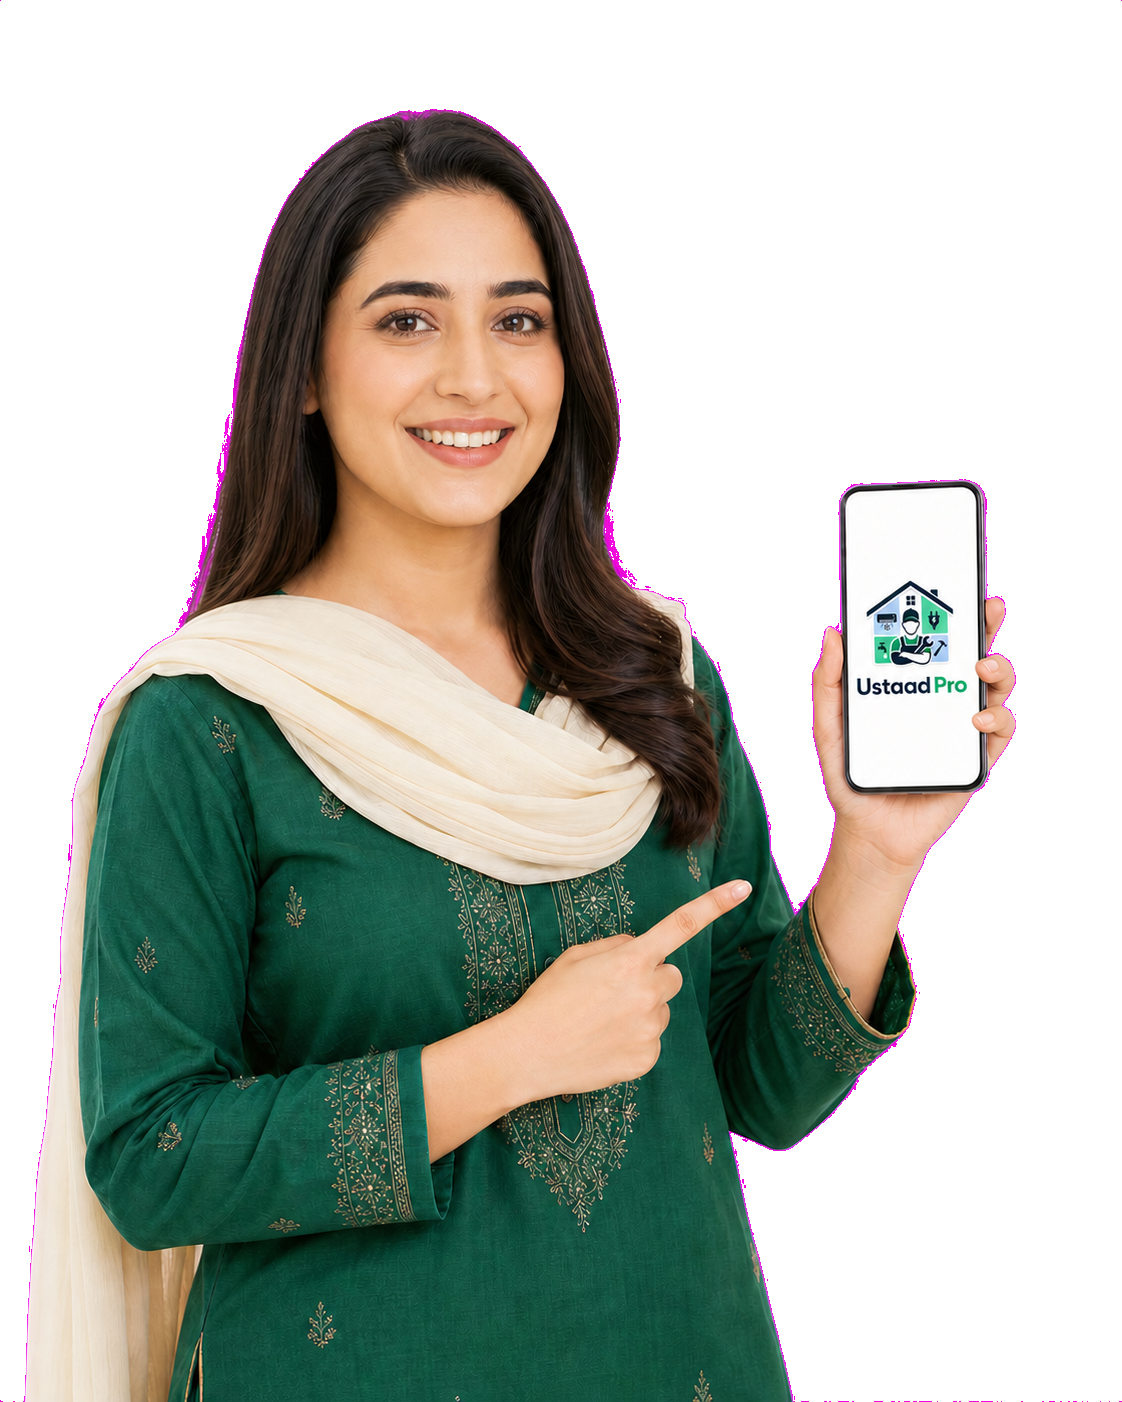
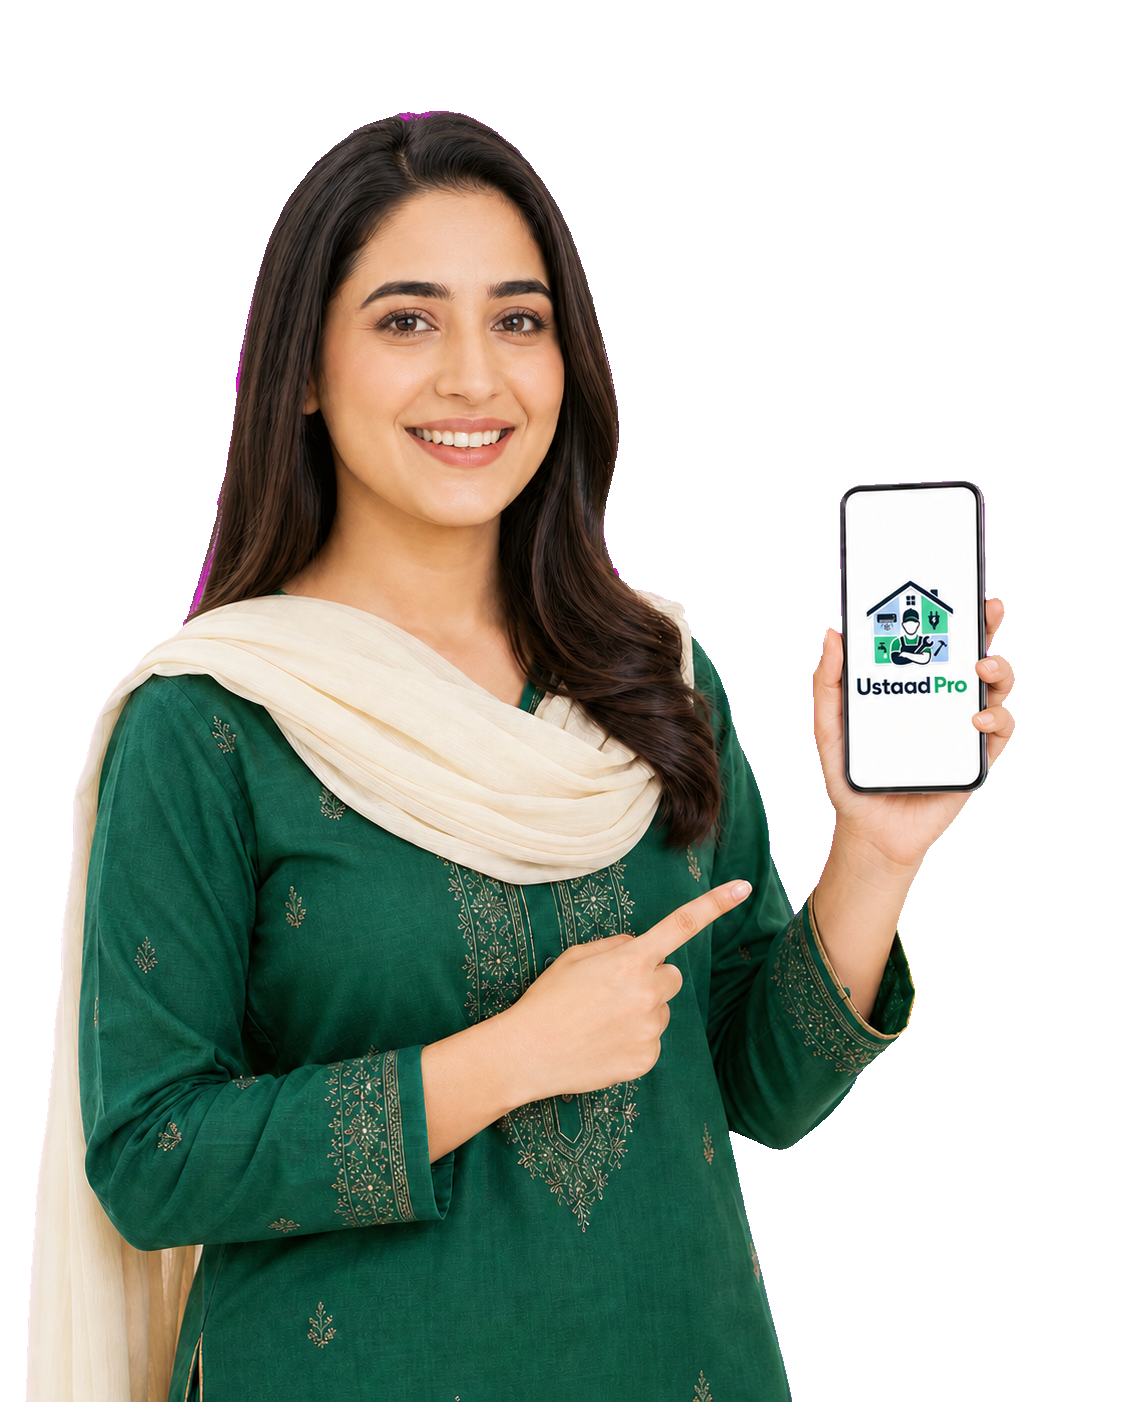
feat: fixed contact

Changed region(s): [[0.1872, 0.276, 0.2184, 0.368], [0.5303, 0.368, 0.5615, 0.4294], [0.156, 0.368, 0.1872, 0.4294]]

diff --git a/src/app/services/ServicesPageContent.tsx b/src/app/services/ServicesPageContent.tsx
@@ -20,12 +20,18 @@ import {
   Shirt,
   Wrench,
   Zap,
+  MapPin,
+  ChevronDown,
+  ShieldCheck,
+  Headphones,
+  CircleCheck,
 } from "lucide-react";
 import type { ApiCategory, ApiService } from "@/lib/api-types";
 import { useRef } from "react";
 import { searchApi } from "@/lib/search";
 import { orderCategories, orderServices } from "@/lib/service-order";
 import { SearchSuggestions } from "@/components/search/SearchSuggestions";
+import { useLocation } from "@/context/LocationContext";
 
 const API_BASE = process.env.NEXT_PUBLIC_API_BASE;
 
@@ -53,6 +59,7 @@ interface ServicesPageContentProps {
 }
 
 export function ServicesPageContent({ initialServices, initialCategories }: ServicesPageContentProps) {
+  const { location, setShowPicker } = useLocation();
   const [searchQuery, setSearchQuery] = useState("");
   const [activeCategory, setActiveCategory] = useState<string>("all");
   const [serviceSearchResults, setServiceSearchResults] = useState<ApiService[]>([]);
@@ -115,74 +122,44 @@ export function ServicesPageContent({ initialServices, initialCategories }: Serv
     return base;
   }, [initialServices, serviceSearchResults, activeCategory, searchQuery]);
 
+  const startingPrice = initialServices.length ? Math.min(...initialServices.map((service) => service.price).filter((price) => price > 0)) : 0;
+  const reviewedServices = initialServices.filter((service) => service.reviews > 0).length;
+
   return (
     <div className="min-h-screen bg-slate-50 pt-0">
-      <section className="relative overflow-hidden bg-[radial-gradient(circle_at_top_left,_rgba(16,185,129,0.2),_transparent_35%),linear-gradient(135deg,_#052e16_0%,_#0f766e_45%,_#059669_100%)] px-4 py-16 text-white sm:px-6 lg:px-8">
-        <div className="absolute inset-0 bg-[linear-gradient(120deg,transparent_0%,rgba(255,255,255,0.08)_50%,transparent_100%)] opacity-30" />
-        <div className="mx-auto grid max-w-7xl gap-8 lg:grid-cols-[1.15fr_0.85fr] lg:items-center">
-          <div>
-            <span className="inline-flex items-center gap-2 rounded-full border border-white/20 bg-white/10 px-3 py-1 text-xs font-semibold uppercase tracking-[0.25em] text-emerald-100">
-              <Sparkles className="h-3.5 w-3.5" />
-              Curated service catalog
-            </span>
-            <h1 className="mt-5 text-3xl font-black tracking-tight sm:text-5xl">
-              Browse a better service experience for your home and office.
-            </h1>
-            <p className="mt-4 max-w-2xl text-base leading-7 text-emerald-50/85 sm:text-lg">
-              Find verified experts for repairs, maintenance, installations, and deep cleaning with clear pricing and faster booking.
-            </p>
+      <section className="relative overflow-hidden border-b border-emerald-100 bg-[radial-gradient(circle_at_68%_20%,#d1fae5_0,transparent_28%),linear-gradient(108deg,#fff_0%,#f7fffb_58%,#059669_58%,#047857_100%)]">
+        <div className="absolute right-0 top-0 hidden h-full w-[42%] opacity-20 lg:block" style={{ backgroundImage: "radial-gradient(#fff 1px,transparent 1px)", backgroundSize: "18px 18px" }} />
+        <div className="relative mx-auto grid min-h-[570px] max-w-7xl gap-10 px-4 py-14 sm:px-6 lg:grid-cols-[1.08fr_.92fr] lg:items-center lg:px-8">
+          <div className="relative z-10">
+            <button type="button" onClick={() => setShowPicker(true)} className="flex w-fit items-center gap-2 rounded-full border border-emerald-200 bg-emerald-50 px-3.5 py-2 text-xs font-bold text-emerald-800 transition hover:bg-emerald-100">
+              <MapPin className="h-4 w-4" /><span className="max-w-56 truncate">{location.shortLabel || location.label || "Rawalpindi & Islamabad"}</span><ChevronDown className="h-3.5 w-3.5" />
+            </button>
+            <span className="mt-6 inline-flex items-center gap-2 text-xs font-black uppercase tracking-[0.2em] text-emerald-600"><Sparkles className="h-4 w-4" /> Services built around your day</span>
+            <h1 className="mt-3 max-w-2xl text-4xl font-black leading-[1.06] tracking-tight text-slate-950 sm:text-5xl xl:text-6xl">Find the right expert.<span className="mt-2 block text-emerald-600">Get the job done right.</span></h1>
+            <p className="mt-5 max-w-xl text-base leading-7 text-slate-600 sm:text-lg">Explore repairs, maintenance, installations, cleaning, and specialist work with clear service details and straightforward booking.</p>
 
-            <div className="mt-8 flex flex-col gap-3 rounded-3xl border border-white/20 bg-white/10 p-4 shadow-xl backdrop-blur-sm sm:flex-row sm:items-center">
-              <div className="relative flex flex-1 items-center rounded-2xl bg-white px-4 shadow-sm">
-                <Search className="mr-3 h-5 w-5 text-slate-400" />
-                <input
-                  type="text"
-                  placeholder="Search services, e.g. AC or painter"
-                  value={searchQuery}
-                  onChange={(e) => {
-                    const value = e.target.value;
-                    setSearchQuery(value);
-                    setActiveCategory("all");
-                    if (!value.trim()) { setServiceSearchResults([]); setSearching(false); }
-                  }}
-                  onKeyDown={(event) => {
-                    if (event.key === "Enter") {
-                      event.preventDefault();
-                      servicesRef.current?.scrollIntoView({ behavior: "smooth", block: "start" });
-                    }
-                  }}
-                  className="h-12 w-full bg-transparent text-base text-slate-800 outline-none placeholder:text-slate-400"
-                />
-                <SearchSuggestions query={searchQuery} scope="service" services={initialServices} />
+            <div className="relative mt-7 max-w-2xl">
+              <div className="flex h-16 items-center rounded-2xl border border-slate-200 bg-white p-1.5 pl-4 shadow-xl shadow-slate-900/10 focus-within:border-emerald-400 focus-within:ring-4 focus-within:ring-emerald-100">
+                <Search className="mr-3 h-5 w-5 shrink-0 text-slate-400" />
+                <input type="text" placeholder="What service do you need?" value={searchQuery} onChange={(e) => { const value = e.target.value; setSearchQuery(value); setActiveCategory("all"); if (!value.trim()) { setServiceSearchResults([]); setSearching(false); } }} onKeyDown={(event) => { if (event.key === "Enter") { event.preventDefault(); servicesRef.current?.scrollIntoView({ behavior: "smooth", block: "start" }); } }} className="h-full min-w-0 flex-1 bg-transparent text-sm text-slate-800 outline-none placeholder:text-slate-400 sm:text-base" />
+                <button type="button" onClick={() => servicesRef.current?.scrollIntoView({ behavior: "smooth", block: "start" })} className="flex h-12 shrink-0 items-center gap-2 rounded-xl bg-emerald-600 px-4 font-bold text-white transition hover:bg-emerald-700 sm:px-6"><Search className="h-4 w-4" /><span className="hidden sm:inline">Search</span></button>
               </div>
-              <button
-                onClick={() => {
-                  setSearchQuery("");
-                  setActiveCategory("all");
-                }}
-                className="rounded-2xl border border-white/20 bg-white/15 px-4 py-3 text-sm font-semibold text-white transition hover:bg-white/20"
-              >
-                Clear search
-              </button>
+              <SearchSuggestions query={searchQuery} scope="service" services={initialServices} />
             </div>
+            <div className="mt-4 flex flex-wrap items-center gap-2 text-xs text-slate-500"><span className="font-bold">Popular:</span>{allCategories.slice(0, 5).map((category) => <button key={category.id} type="button" onClick={() => selectCategory(category.id, true)} className="rounded-full border border-slate-200 bg-white px-3 py-1.5 transition hover:border-emerald-300 hover:text-emerald-700">{category.title}</button>)}</div>
           </div>
 
-          <div className="rounded-[28px] border border-white/20 bg-white/10 p-5 shadow-2xl backdrop-blur-md">
-            <div className="grid gap-3 sm:grid-cols-2">
-              <div className="rounded-2xl border border-white/15 bg-slate-950/20 p-4">
-                <p className="text-3xl font-black">100+</p>
-                <p className="mt-1 text-sm text-emerald-50/80">Verified service options</p>
+          <div className="relative z-10 lg:pl-8">
+            <div className="rounded-3xl border border-white/70 bg-white/95 p-5 shadow-2xl backdrop-blur sm:p-7">
+              <div className="flex items-center justify-between gap-3"><div><span className="text-xs font-black uppercase tracking-[0.18em] text-emerald-600">Live service catalogue</span><h2 className="mt-1 text-2xl font-black text-slate-950">Everything your space needs</h2></div><span className="flex h-12 w-12 items-center justify-center rounded-2xl bg-emerald-100 text-emerald-700"><Wrench className="h-6 w-6" /></span></div>
+              <div className="mt-6 grid grid-cols-2 gap-3">
+                <div className="rounded-2xl bg-slate-50 p-4"><strong className="block text-2xl font-black text-slate-950">{initialServices.length}</strong><span className="text-xs text-slate-500">Bookable services</span></div>
+                <div className="rounded-2xl bg-slate-50 p-4"><strong className="block text-2xl font-black text-slate-950">{allCategories.length}</strong><span className="text-xs text-slate-500">Service categories</span></div>
+                <div className="rounded-2xl bg-slate-50 p-4"><strong className="block text-2xl font-black text-slate-950">{startingPrice ? `Rs ${startingPrice.toLocaleString()}` : "—"}</strong><span className="text-xs text-slate-500">Lowest starting price</span></div>
+                <div className="rounded-2xl bg-slate-50 p-4"><strong className="block text-2xl font-black text-slate-950">{reviewedServices}</strong><span className="text-xs text-slate-500">Services with reviews</span></div>
               </div>
-              <div className="rounded-2xl border border-white/15 bg-slate-950/20 p-4">
-                <p className="text-3xl font-black">24/7</p>
-                <p className="mt-1 text-sm text-emerald-50/80">Booking support</p>
-              </div>
-              <div className="rounded-2xl border border-white/15 bg-slate-950/20 p-4 sm:col-span-2">
-                <p className="text-sm font-semibold uppercase tracking-[0.25em] text-emerald-200">Why customers choose us</p>
-                <p className="mt-2 text-sm leading-6 text-emerald-50/80">
-                  Transparent pricing, skilled professionals, and a smoother booking flow that keeps your plans moving.
-                </p>
-              </div>
+              <div className="mt-5 space-y-3 border-t border-slate-100 pt-5">{[{ icon: ShieldCheck, text: "Clear scope and pricing before booking" }, { icon: CircleCheck, text: "Real customer ratings from completed orders" }, { icon: Headphones, text: "Support for bookings and service concerns" }].map(({ icon: Icon, text }) => <div key={text} className="flex items-center gap-3 text-sm font-medium text-slate-600"><span className="flex h-8 w-8 items-center justify-center rounded-lg bg-emerald-50 text-emerald-700"><Icon className="h-4 w-4" /></span>{text}</div>)}</div>
+              <button type="button" onClick={() => servicesRef.current?.scrollIntoView({ behavior: "smooth", block: "start" })} className="mt-6 flex w-full items-center justify-center gap-2 rounded-xl bg-emerald-600 px-5 py-3.5 text-sm font-bold text-white transition hover:bg-emerald-700">Browse all services <ArrowRight className="h-4 w-4" /></button>
             </div>
           </div>
         </div>

diff --git a/src/app/contact/page.tsx b/src/app/contact/page.tsx
@@ -1,21 +1,50 @@
 "use client";
 
-import { Mail, Phone, MapPin, Send, MessageSquare } from "lucide-react";
+import { Mail, Phone, MapPin, Send, LoaderCircle, AlertCircle } from "lucide-react";
 import { useState } from "react";
 
 export default function ContactPage() {
   const [name, setName] = useState("");
   const [email, setEmail] = useState("");
   const [message, setMessage] = useState("");
-  const [submitted, setSubmitted] = useState(false);
+  const [busy, setBusy] = useState(false);
+  const [feedback, setFeedback] = useState<{ type: "success" | "error"; message: string } | null>(null);
 
-  const handleSubmit = (e: React.FormEvent) => {
+  const handleSubmit = async (e: React.FormEvent) => {
     e.preventDefault();
-    setSubmitted(true);
-    setName("");
-    setEmail("");
-    setMessage("");
-    setTimeout(() => setSubmitted(false), 5000);
+    if (busy) return;
+
+    const payload = {
+      name: name.trim(),
+      email: email.trim(),
+      message: message.trim(),
+    };
+
+    if (!payload.name || !payload.email || !payload.message) {
+      setFeedback({ type: "error", message: "Please complete your name, email address, and message." });
+      return;
+    }
+
+    setBusy(true);
+    setFeedback(null);
+    try {
+      const response = await fetch("/api/contact", {
+        method: "POST",
+        headers: { "Content-Type": "application/json", Accept: "application/json" },
+        body: JSON.stringify(payload),
+      });
+      const data = await response.json().catch(() => ({}));
+      if (!response.ok) throw new Error(data.message || "Your message could not be sent. Please try again.");
+
+      setFeedback({ type: "success", message: data.message || "Your message has been sent successfully. We will contact you soon." });
+      setName("");
+      setEmail("");
+      setMessage("");
+    } catch (error) {
+      setFeedback({ type: "error", message: error instanceof Error ? error.message : "Your message could not be sent. Please try again." });
+    } finally {
+      setBusy(false);
+    }
   };
 
   return (
@@ -44,7 +73,7 @@ export default function ContactPage() {
               </div>
               <div>
                 <h3 className="font-bold text-slate-900 mb-1">Call / WhatsApp</h3>
-                <p className="text-slate-600 text-sm font-medium">+92 371 9201273</p>
+                <a href="tel:+923719201273" className="text-slate-600 text-sm font-medium transition hover:text-primary">+92 371 9201273</a>
                 <p className="text-xs text-slate-400 mt-1">Mon-Sun: 9:00 AM - 9:00 PM</p>
               </div>
             </div>
@@ -56,7 +85,7 @@ export default function ContactPage() {
               </div>
               <div className="min-w-0">
                 <h3 className="font-bold text-slate-900 mb-1">Email Address</h3>
-                <p className="text-slate-600 text-sm font-medium truncate">[email redacted]</p>
+                <a href="mailto:[email redacted]" className="block truncate text-sm font-medium text-slate-600 transition hover:text-primary">[email redacted]</a>
                 <p className="text-xs text-slate-400 mt-1">Average response time: 2 hours</p>
               </div>
             </div>
@@ -67,9 +96,9 @@ export default function ContactPage() {
                 <MapPin className="h-5 w-5" />
               </div>
               <div>
-                <h3 className="font-bold text-slate-900 mb-1">Head Office</h3>
-                <p className="text-slate-600 text-sm font-medium">Rawalpindi &amp; Islamabad, Pakistan</p>
-                <p className="text-xs text-slate-400 mt-1">Providing services across Twin Cities</p>
+                <h3 className="font-bold text-slate-900 mb-1">Office Location</h3>
+                <a href="https://maps.app.goo.gl/N7Hn1o8pupSz3iQ69" target="_blank" rel="noopener noreferrer" className="text-slate-600 text-sm font-medium transition hover:text-primary">Sharplogicians Agile Center, Building # 153-M, Office # 32, 4th Floor, D-Block Civic Center, Phase 4, Bahria Town, Islamabad 46220, Pakistan</a>
+                <p className="text-xs text-slate-400 mt-1">View our office on Google Maps</p>
               </div>
             </div>
           </div>
@@ -79,10 +108,10 @@ export default function ContactPage() {
             <h2 className="text-xl font-bold text-slate-900 mb-2">Send us a message</h2>
             <p className="text-slate-400 text-sm mb-6">Fill out the form below and our team will get back to you shortly.</p>
 
-            {submitted && (
-              <div className="bg-emerald-50 border border-emerald-100 text-emerald-800 text-sm rounded-2xl p-4 mb-6 flex items-center gap-2">
-                <CheckSuccessIcon />
-                Your message has been sent successfully! We will contact you soon.
+            {feedback && (
+              <div role="status" aria-live="polite" className={`text-sm rounded-2xl p-4 mb-6 flex items-start gap-2 ${feedback.type === "success" ? "bg-emerald-50 border border-emerald-100 text-emerald-800" : "bg-red-50 border border-red-100 text-red-800"}`}>
+                {feedback.type === "success" ? <CheckSuccessIcon /> : <AlertCircle className="mt-0.5 h-5 w-5 shrink-0" />}
+                {feedback.message}
               </div>
             )}
 
@@ -95,8 +124,8 @@ export default function ContactPage() {
                   type="text"
                   required
                   value={name}
-                  onChange={(e) => setName(e.target.value)}
-                  placeholder="e.g. Abdullah Siraj"
+                  onChange={(e) => { setName(e.target.value); if (feedback?.type === "error") setFeedback(null); }}
+                  placeholder="e.g. Muhammad Ali"
                   className="w-full bg-slate-50 border border-slate-200 rounded-2xl px-4 py-3 text-sm outline-none focus:border-primary focus:ring-1 focus:ring-primary transition-all text-slate-800"
                 />
               </div>
@@ -109,7 +138,7 @@ export default function ContactPage() {
                   type="email"
                   required
                   value={email}
-                  onChange={(e) => setEmail(e.target.value)}
+                  onChange={(e) => { setEmail(e.target.value); if (feedback?.type === "error") setFeedback(null); }}
                   placeholder="[email redacted]"
                   className="w-full bg-slate-50 border border-slate-200 rounded-2xl px-4 py-3 text-sm outline-none focus:border-primary focus:ring-1 focus:ring-primary transition-all text-slate-800"
                 />
@@ -123,7 +152,7 @@ export default function ContactPage() {
                   required
                   rows={4}
                   value={message}
-                  onChange={(e) => setMessage(e.target.value)}
+                  onChange={(e) => { setMessage(e.target.value); if (feedback?.type === "error") setFeedback(null); }}
                   placeholder="How can we help you?"
                   className="w-full bg-slate-50 border border-slate-200 rounded-2xl px-4 py-3 text-sm outline-none focus:border-primary focus:ring-1 focus:ring-primary transition-all text-slate-800 resize-none"
                 />
@@ -131,10 +160,11 @@ export default function ContactPage() {
 
               <button
                 type="submit"
-                className="w-full flex items-center justify-center gap-2 bg-primary hover:bg-emerald-700 text-white font-bold py-3.5 rounded-2xl text-sm transition-all shadow-lg shadow-primary/20"
+                disabled={busy}
+                className="w-full flex items-center justify-center gap-2 bg-primary hover:bg-emerald-700 text-white font-bold py-3.5 rounded-2xl text-sm transition-all shadow-lg shadow-primary/20 disabled:cursor-not-allowed disabled:opacity-60"
               >
-                Send Message
-                <Send className="h-4 w-4" />
+                {busy ? "Sending…" : "Send Message"}
+                {busy ? <LoaderCircle className="h-4 w-4 animate-spin" /> : <Send className="h-4 w-4" />}
               </button>
             </form>
           </div>

diff --git a/src/app/api/contact/route.ts b/src/app/api/contact/route.ts
@@ -1,0 +1,60 @@
+import { NextResponse } from "next/server";
+
+const API_BASE = process.env.NEXT_PUBLIC_API_BASE?.replace(/\/$/, "");
+const EMAIL_PATTERN = /^[^\s@]+@[^\s@]+\.[^\s@]+$/;
+
+export async function POST(request: Request) {
+  try {
+    const body: unknown = await request.json();
+    if (!body || typeof body !== "object") {
+      return NextResponse.json({ message: "Please provide valid contact details." }, { status: 400 });
+    }
+
+    const source = body as Record<string, unknown>;
+    const payload = {
+      name: String(source.name || "").trim(),
+      email: String(source.email || "").trim().toLowerCase(),
+      message: String(source.message || "").trim(),
+    };
+
+    if (payload.name.length < 2 || !EMAIL_PATTERN.test(payload.email) || payload.message.length < 3) {
+      return NextResponse.json(
+        { message: "Please enter a valid name, email address, and message." },
+        { status: 400 },
+      );
+    }
+
+    if (!API_BASE) {
+      return NextResponse.json(
+        { message: "Contact service is temporarily unavailable. Please email [email redacted]." },
+        { status: 503 },
+      );
+    }
+
+    const response = await fetch(`${API_BASE}/api/contact`, {
+      method: "POST",
+      headers: { "Content-Type": "application/json", Accept: "application/json" },
+      body: JSON.stringify(payload),
+      cache: "no-store",
+      signal: AbortSignal.timeout(10_000),
+    });
+    const data = await response.json().catch(() => ({}));
+
+    if (!response.ok) {
+      return NextResponse.json(
+        { message: data.message || "Your message could not be sent. Please try again or email [email redacted]." },
+        { status: response.status },
+      );
+    }
+
+    return NextResponse.json({
+      message: data.message || "Your message has been sent to [email redacted]. We will contact you soon.",
+    });
+  } catch (error) {
+    const timedOut = error instanceof Error && error.name === "TimeoutError";
+    return NextResponse.json(
+      { message: timedOut ? "The contact service timed out. Please try again." : "Your message could not be sent. Please try again." },
+      { status: timedOut ? 504 : 500 },
+    );
+  }
+}

diff --git a/src/components/auth/AuthModal.tsx b/src/components/auth/AuthModal.tsx
@@ -83,7 +83,7 @@ export function AuthModal() {
                       required
                       value={name}
                       onChange={(e) => setName(e.target.value)}
-                      placeholder="e.g. Abdullah Siraj"
+                      placeholder="e.g. Muhammad Ali"
                       className="flex-1 bg-transparent h-11 text-sm outline-none text-slate-800 placeholder:text-slate-400"
                     />
                   </div>

diff --git a/src/lib/constants.ts b/src/lib/constants.ts
@@ -22,11 +22,11 @@ export const whatsappUrl =
 
 export const navItems = [
   { label: "Home", href: "/" },
-  { label: "About Us", href: "/about" },
   { label: "Services", href: "/services" },
   { label: "Store", href: "/store" },
   { label: "Track Booking", href: "/track-booking" },
   { label: "Contact", href: "/contact" },
+  { label: "About Us", href: "/about" },
 ] as const;
 
 export const quickAccessMenu = [